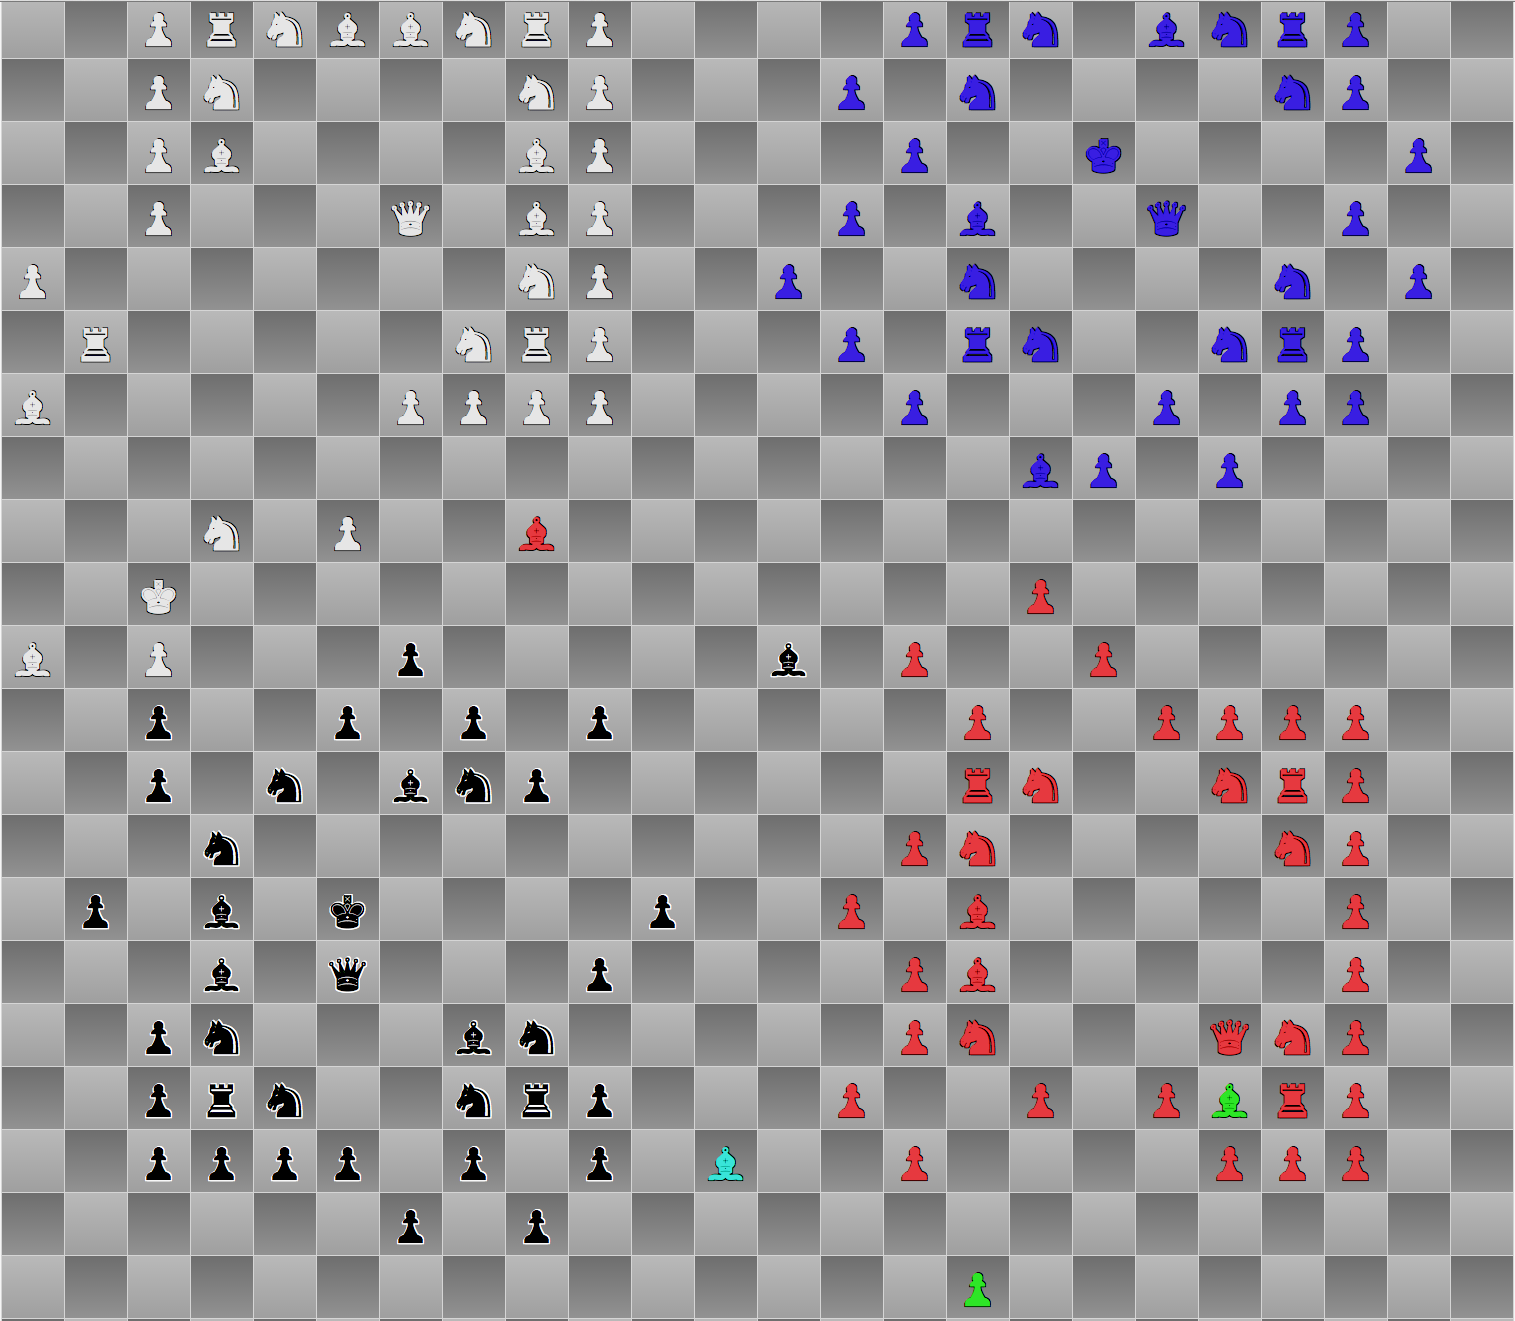
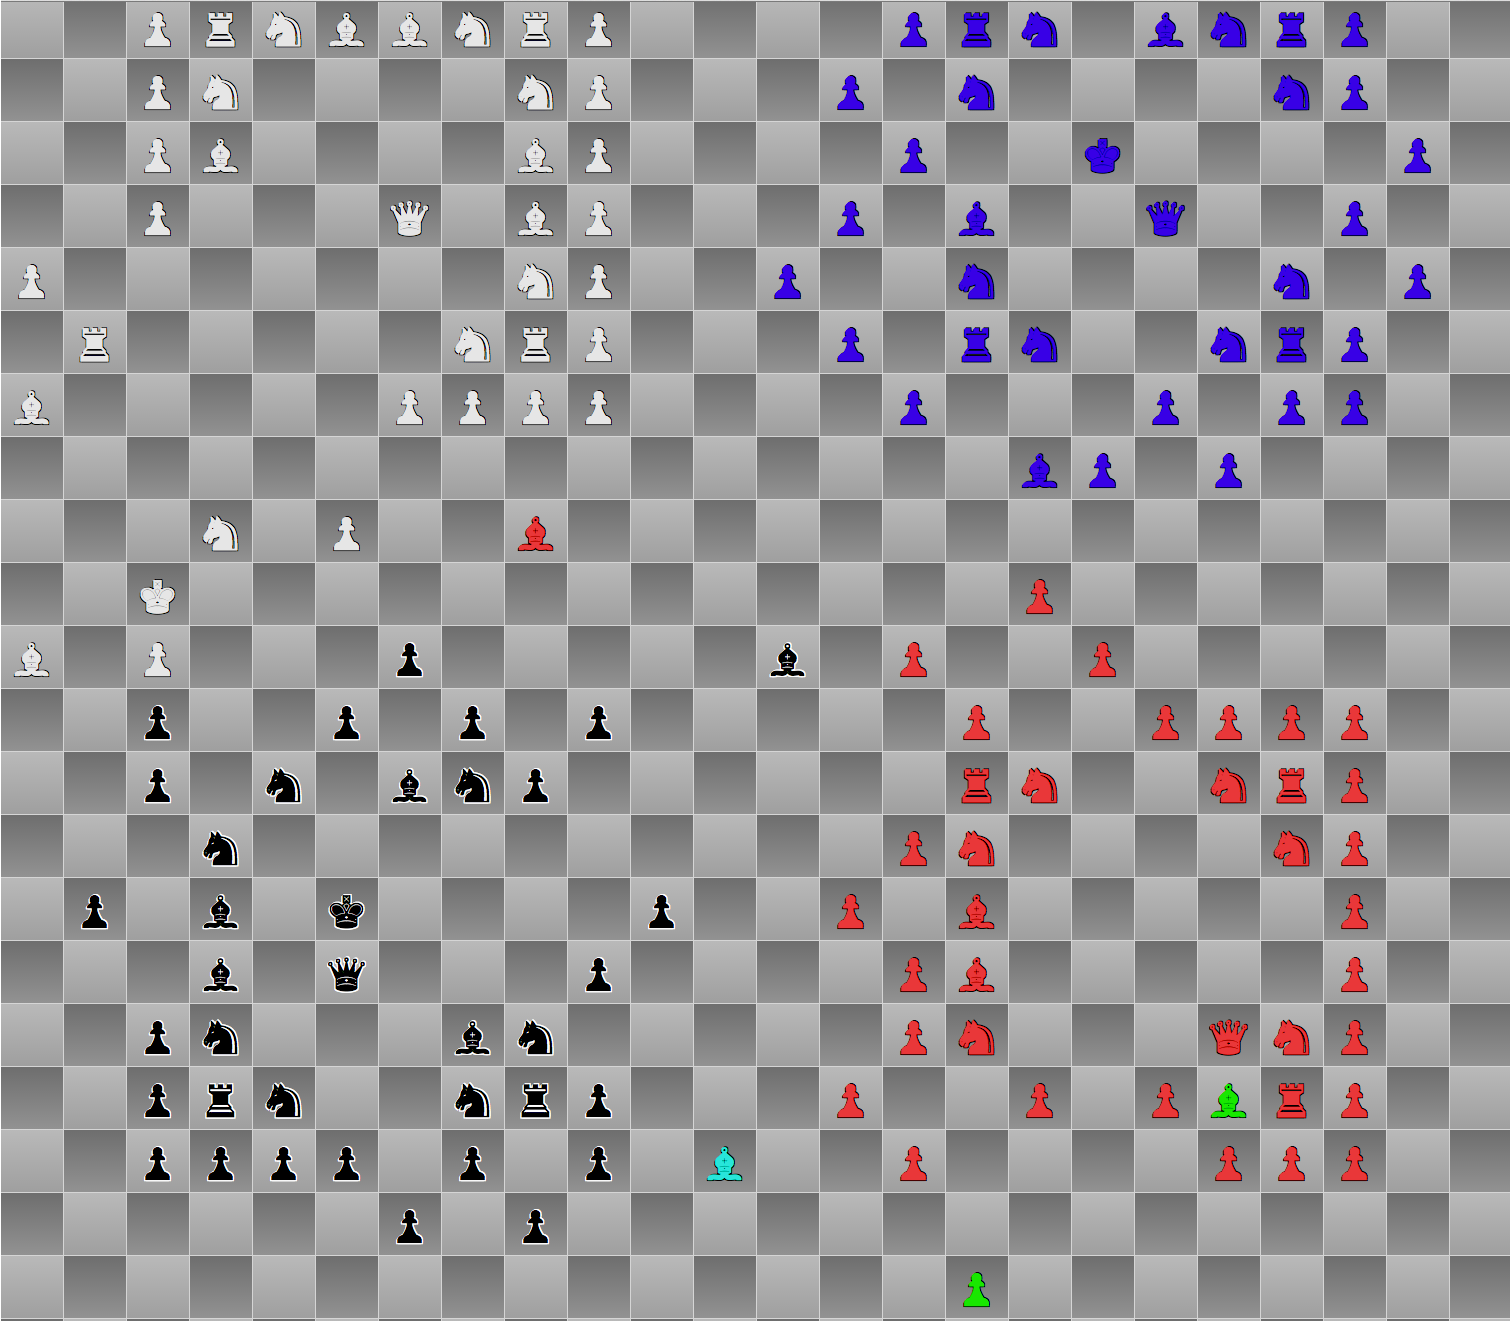
Fixup ads

diff --git a/index.html b/index.html
@@ -22,7 +22,6 @@
 
 </head>
 <body>
-<h1 class="main-header">v5 Games</h1>
 <div class="row wordsmashing-background mm-article-theme">
         <img class="big-shadow img-responsive inline" src="/static/img/wordsmashing_icon128.png">
         <a class="btn btn-lg btn-warning mm-btn-hg big-shadow" href="http://www.wordsmashing.com" target="_blank">Play Now!</a>
@@ -32,7 +31,7 @@
         <a class="btn btn-lg btn-warning mm-btn-hg" href="http://www.multiplicationmaster.com" target="_blank">Play Now!</a>
 </div>
 <div class="row big-multiplayer-chess-background mm-article-theme">
-        <img class="img-responsive inline" src="/static/img/multiplication-master-logo.png">
+        <a class="big-multiplayer-chess-logo big-shadow">BIG MULTIPLAYER CHESS</a>
         <a class="btn btn-lg btn-warning mm-btn-hg" href="http://bigmultiplayerchess.com" target="_blank">Play Now!</a>
 </div>
 </body>

diff --git a/static/less/main.less b/static/less/main.less
@@ -23,8 +23,16 @@ body {
 .big-multiplayer-chess-background {
     background-image: url(/static/img/big-multiplayer-chess-screenshot-early-game1000x872.png);
     background-repeat: repeat;
+    background-position: 136px -248px;
 }
+.big-multiplayer-chess-logo {
+    font-size: 40px;
+    font-weight: bolder;
+    color: #ed9c28;
 
+    text-shadow: 0 0 #fff, 1px -1px 0 #fff, -1px 1px 0 #fff, 1px 1px 0 #fff;
+
+}
 .big-shadow {
     //    .box-shadow(0 1px 10px rgba(20, 20, 20, 0.5));
     .drop-shadow(0 0 20 #db524b);

diff --git a/static/css/style.css b/static/css/style.css
@@ -311,6 +311,13 @@ body {
 .big-multiplayer-chess-background {
   background-image: url(/static/img/big-multiplayer-chess-screenshot-early-game1000x872.png);
   background-repeat: repeat;
+  background-position: 136px -248px;
+}
+.big-multiplayer-chess-logo {
+  font-size: 40px;
+  font-weight: bolder;
+  color: #ed9c28;
+  text-shadow: 0 0 #ffffff, 1px -1px 0 #ffffff, -1px 1px 0 #ffffff, 1px 1px 0 #ffffff;
 }
 .big-shadow {
   -webkit-filter: drop-shadow(0 0 20px #db524b);

diff --git a/backup-media-ads.html b/backup-media-ads.html
@@ -1,0 +1,3 @@
+<iframe src="http://www.wordsmashing.com" style="min-width:300px;min-height:250px;width: 100%;border: none"
+        seamless="seamless">
+</iframe>
